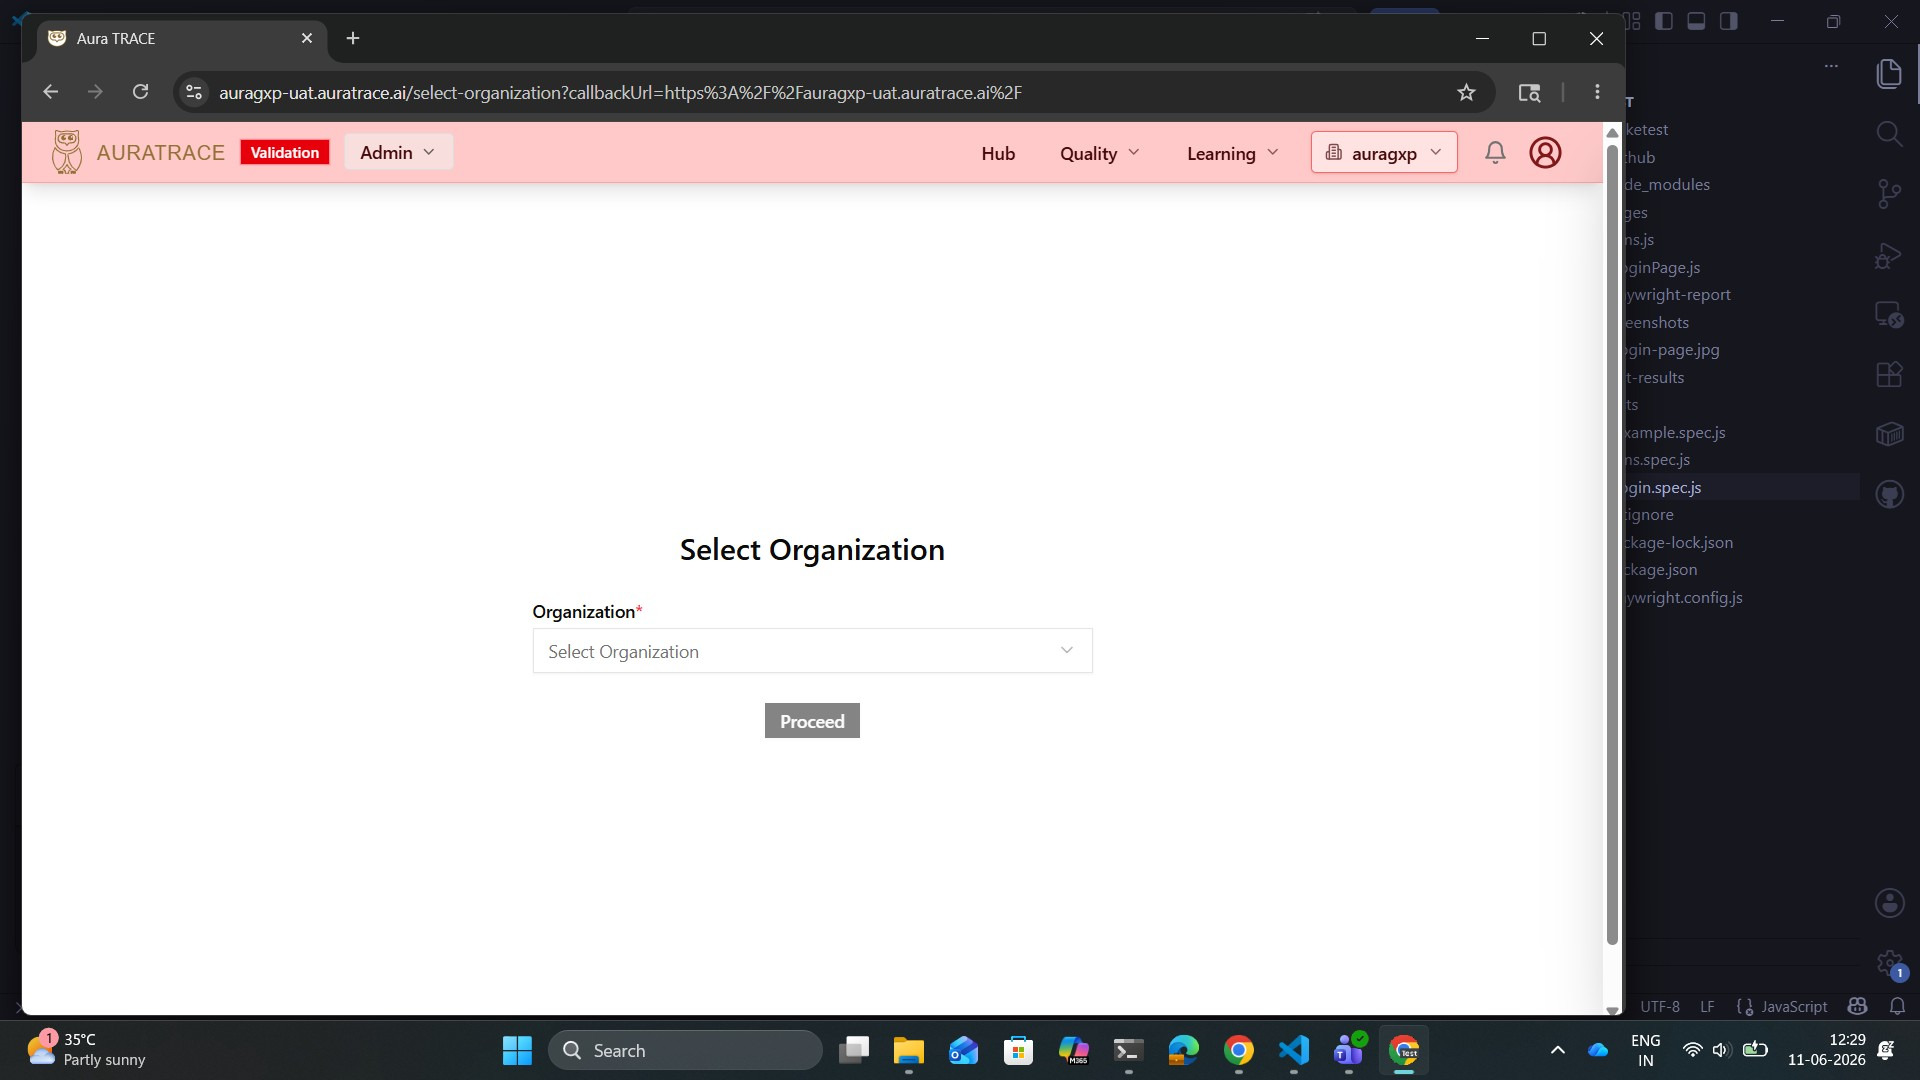
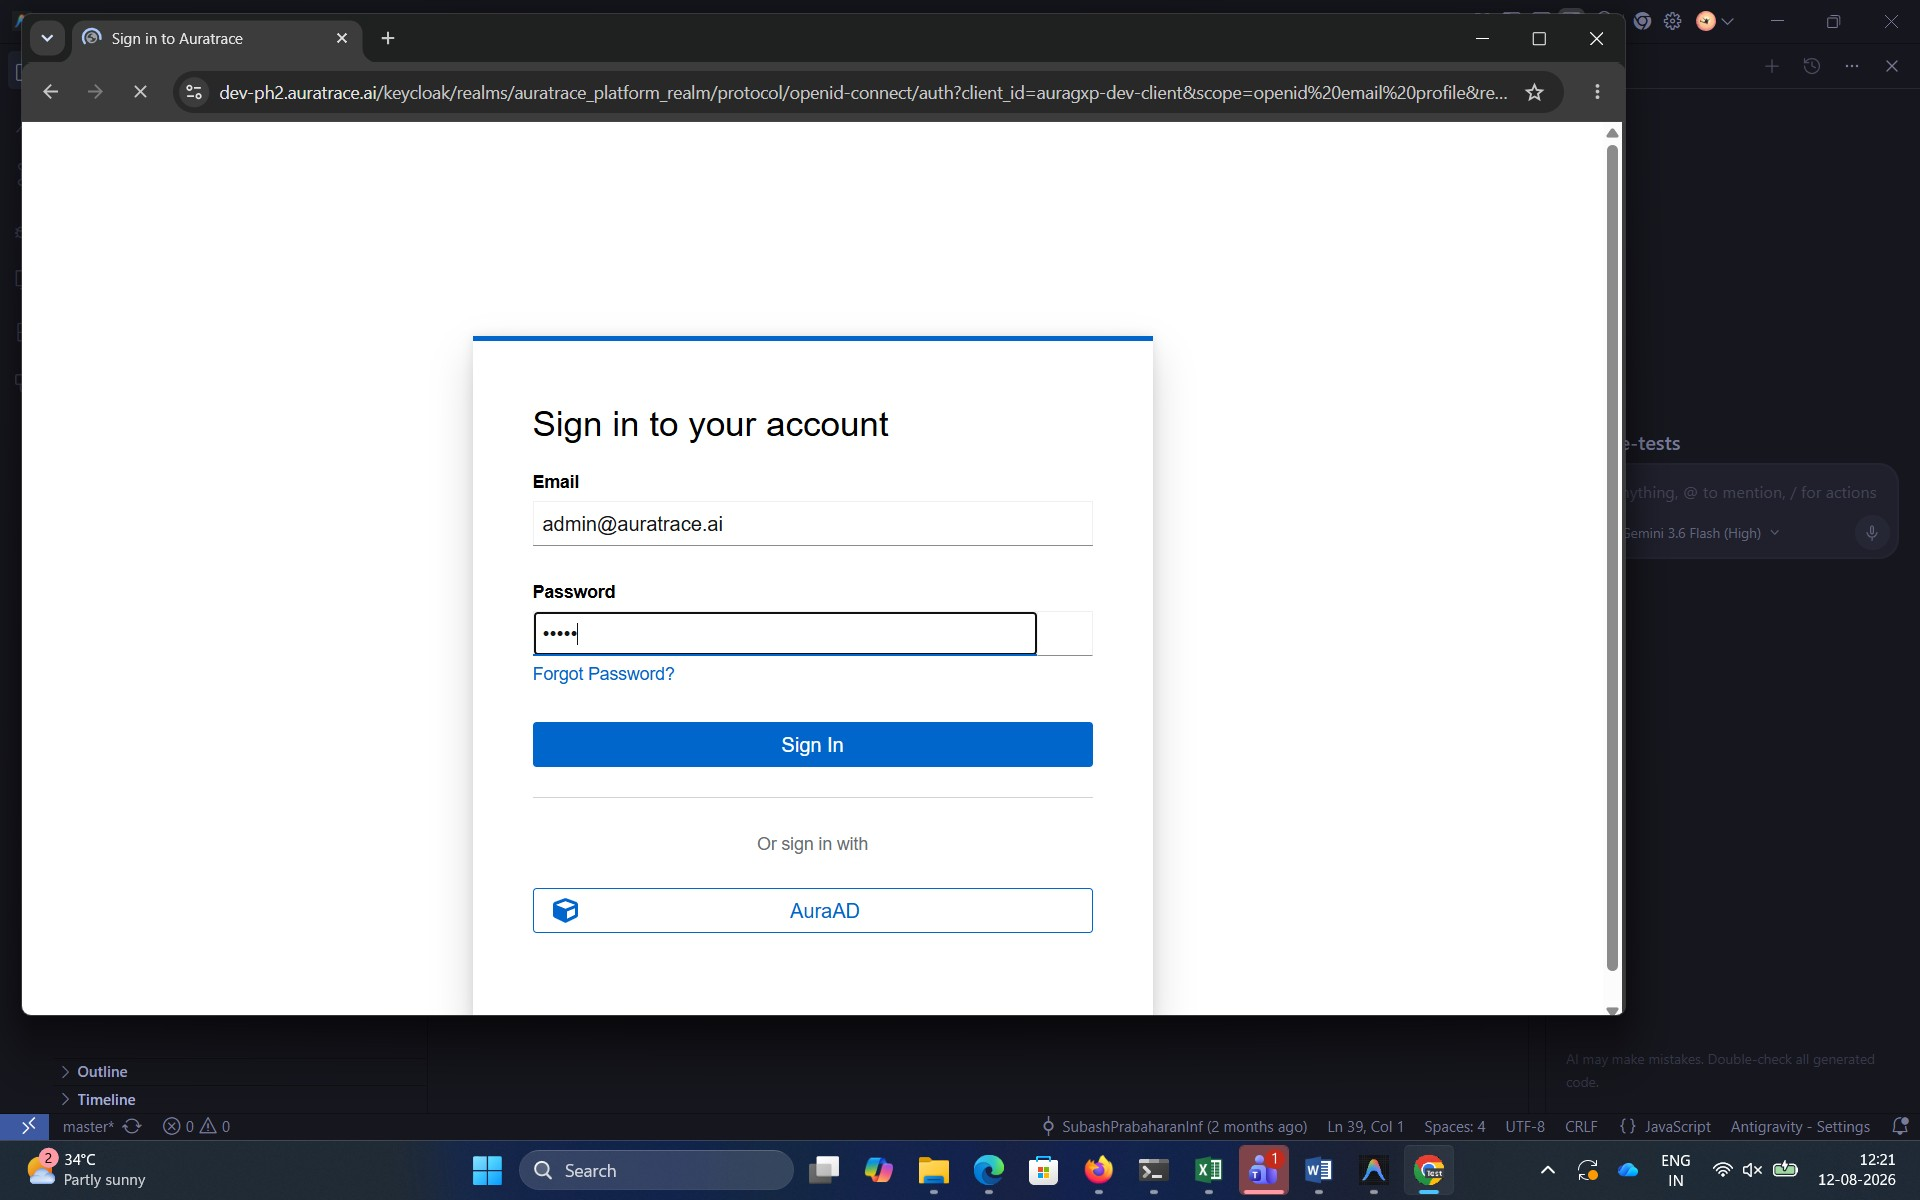
login-screenshots-done

diff --git a/pages/loginPage.js b/pages/loginPage.js
@@ -1,34 +1,41 @@
+import screenshot from 'screenshot-desktop';
+
 class loginPage{
 
-    constructor(page){
-
+     constructor(page) {
     this.page = page;
     this.credentials = page.locator('//button[normalize-space()="Continue with Credentials"]');
     this.usernameInput = page.locator('#username');
     this.passwordInput = page.locator('#password');
     this.loginButton = page.getByRole('button', { name: 'Sign In' });
-    this.selOrg = page.getByRole('combobox').filter({ hasText: 'Select Organization' });
-    this.opt = page.getByRole('option', { name: 'auragxp (agxp)' });
+    this.selOrg = page.locator('button[role="combobox"]');
+    this.opt = page.getByRole('option', { name: 'auratrace' });
     this.proceed = page.getByRole('button', { name: 'Proceed' });
-    }
+  }
 
     async goto(){
-        await this.page.goto('https://auragxp-uat.auratrace.ai/');
+        await this.page.goto('https://dev-ph2.auratrace.ai/');
         await this.page.waitForLoadState('networkidle');
+        await screenshot({ filename: './screenshots/login-page.jpg',fullpage: true });
 
     }
 
 
-        async login(username, password){
-            await this.credentials.click();
-            await this.usernameInput.fill(username);
-            await this.passwordInput.fill(password);
-            await this.loginButton.click();
-            // await this.selOrg.click();
-            // await this.opt.click();
-            // await this.proceed.click();
-        }
+     async login(username, password) {
+    await this.credentials.click();
+    await this.usernameInput.fill(username);
+    await this.passwordInput.fill(password);
+    await screenshot({ filename: './screenshots/cred-page.jpg',fullpage: true });
+    await this.loginButton.click();
+    await this.selOrg.click();
+    await this.opt.click();
+    await this.proceed.click();
+    await this.page.waitForTimeout(5000)
+    await screenshot({filename : './screenshots/home-page.jpg',fullpage:true});
+    
 
+
+  }
 
 
 }

diff --git a/tests/login.spec.js b/tests/login.spec.js
@@ -3,18 +3,7 @@ import loginPage from '../pages/loginPage.js';
 import screenshot from 'screenshot-desktop';
 
 test('@login Login Test', async ({ page }) => {
-    // await page.setViewportSize({
-    //     width: 1920,
-    //     height: 1080
-    // });
-
     const login = new loginPage(page);
-
     await login.goto();
-    await screenshot({ filename: './screenshots/login-page.jpg',fullpage: true });
-
-    await login.login('admin@auragxp.com', 'admin@12345');
-    await page.waitForTimeout(5000);
-    await screenshot({ filename: './screenshots/cred-page.jpg',fullpage: true });
-
+    await login.login('admin@auratrace.ai', 'admin');
 });

diff --git a/e2e/example.spec.js b/e2e/example.spec.js
@@ -1,0 +1,19 @@
+// @ts-check
+import { test, expect } from '@playwright/test';
+
+test('has title', async ({ page }) => {
+  await page.goto('https://playwright.dev/');
+
+  // Expect a title "to contain" a substring.
+  await expect(page).toHaveTitle(/Playwright/);
+});
+
+test('get started link', async ({ page }) => {
+  await page.goto('https://playwright.dev/');
+
+  // Click the get started link.
+  await page.getByRole('link', { name: 'Get started' }).click();
+
+  // Expects page to have a heading with the name of Installation.
+  await expect(page.getByRole('heading', { name: 'Installation' })).toBeVisible();
+});
